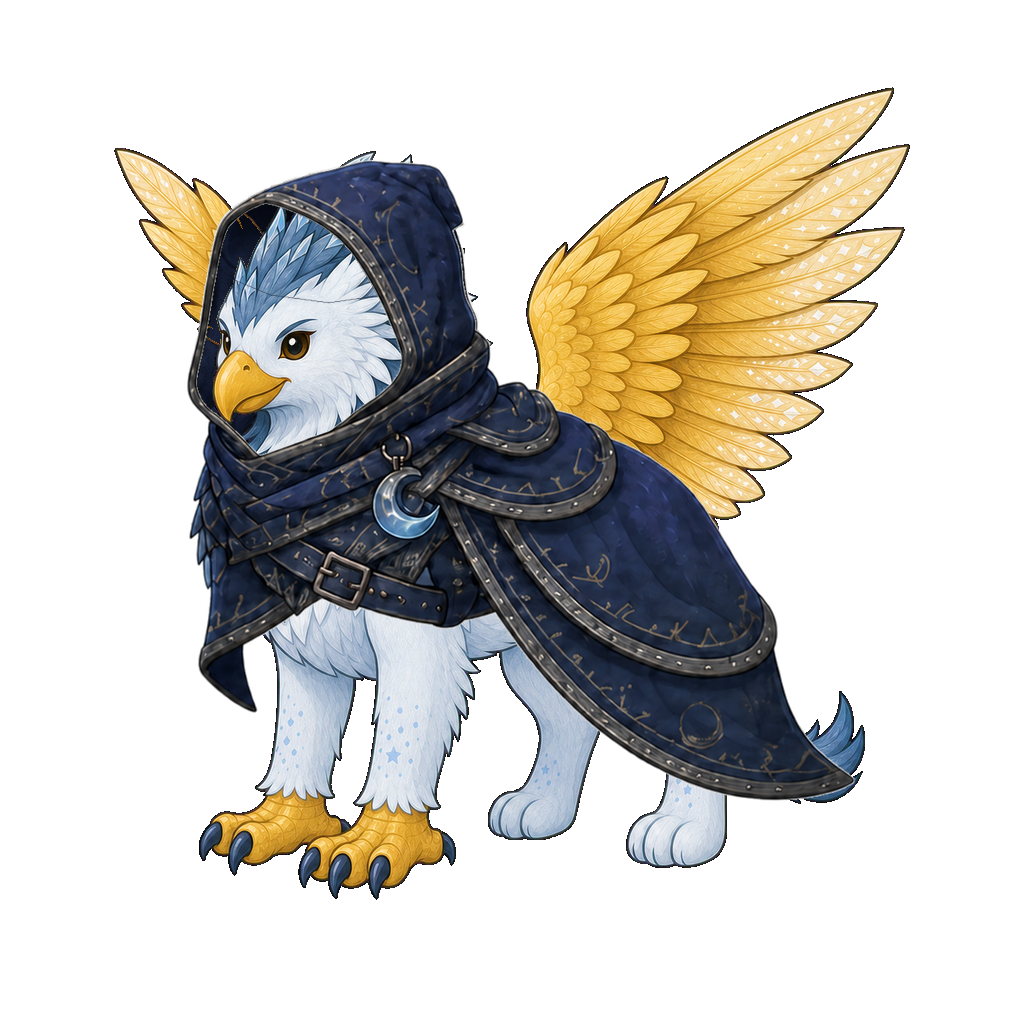
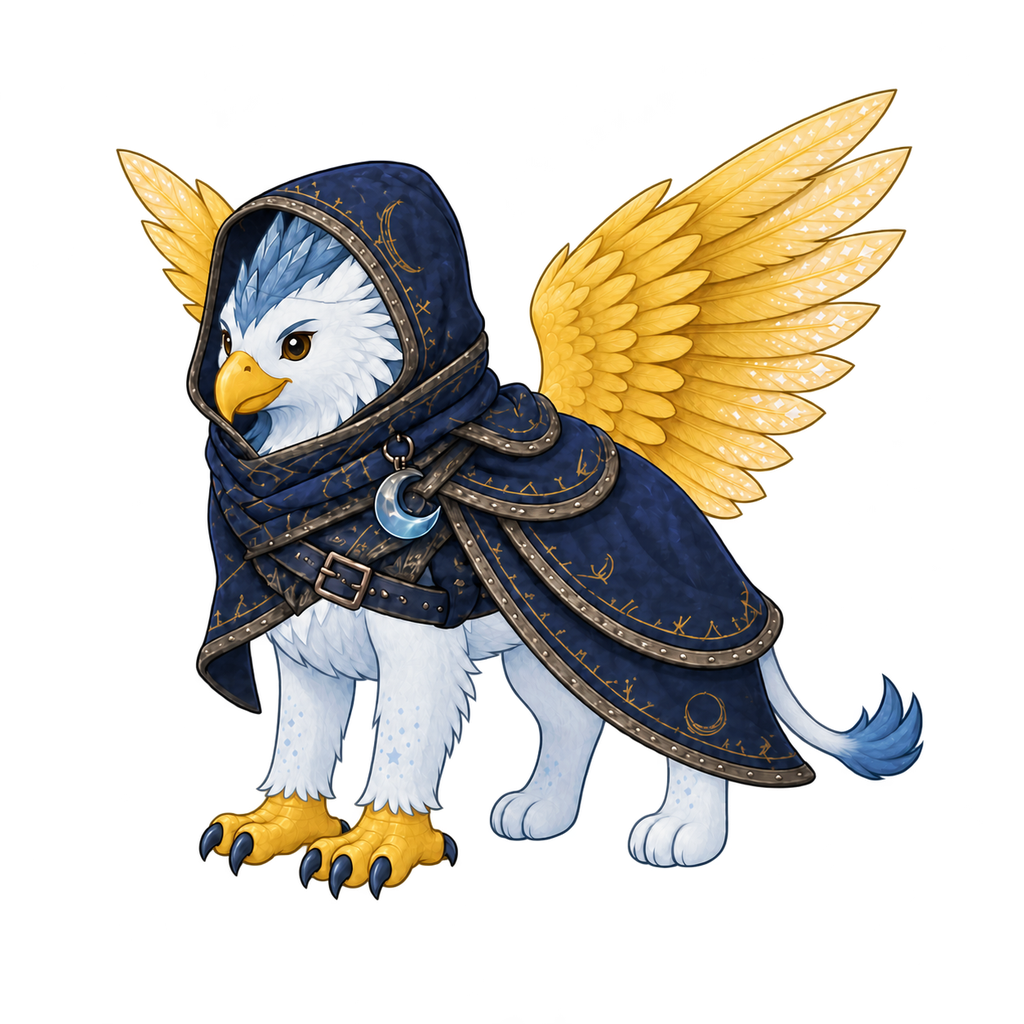
Repair static class figure seams and clothing overlaps

Changed region(s): [[0.0938, 0.0625, 0.9062, 0.875], [0.4688, 0.6875, 0.5625, 0.8438]]

diff --git a/art/source/static-cleanup/README.md b/art/source/static-cleanup/README.md
@@ -1,0 +1,27 @@
+# Static figure cleanup
+
+The 71 delivered base and class figures were screened at gameplay size on a dark
+background. Three images received targeted repairs using the built-in image_gen
+tool; the other 68 were left unchanged. This screening is not a claim that every
+pixel of the remaining artwork is defect-free.
+
+- Duskrunner Mythic griffin: closed the hood crown over stray head feathers,
+  tucked protruding chest feathers beneath the cloak, and gave the tail a visible
+  continuous connection clear of the cape. The user approved the chest candidate.
+- Duskrunner Mythic kitsune: restored the clipped face silhouette, repaired the
+  discontinuous cape and cutout holes, and separated the three tails from cloth.
+- Thornguard Radiant griffin: repaired ragged extraction edges and small cutout
+  defects, preserving its wood armor, tree emblem, folded wings, and visible tail.
+
+The generated sources and prompts are retained here. Installation records include
+source hashes and transforms. Runtime images remain at their existing
+`assets/character-rigs/.../assembled.png` URLs. Normalization uses uniform Lanczos
+resampling onto a transparent 1024px canvas with the lowest visible pixel at
+y=900. The two later repairs retain the original figure height and horizontal
+silhouette center; normalization adds no retouching or procedural animation.
+
+Validation: `python tools/art/verify.py --strict` passed all 586 checks. The final
+installed images were also inspected on a dark background at gameplay size.
+
+The hood/tail candidate is the input to the approved chest correction, not a
+second runtime figure. No rigs, layers, or new runtime code are introduced.
